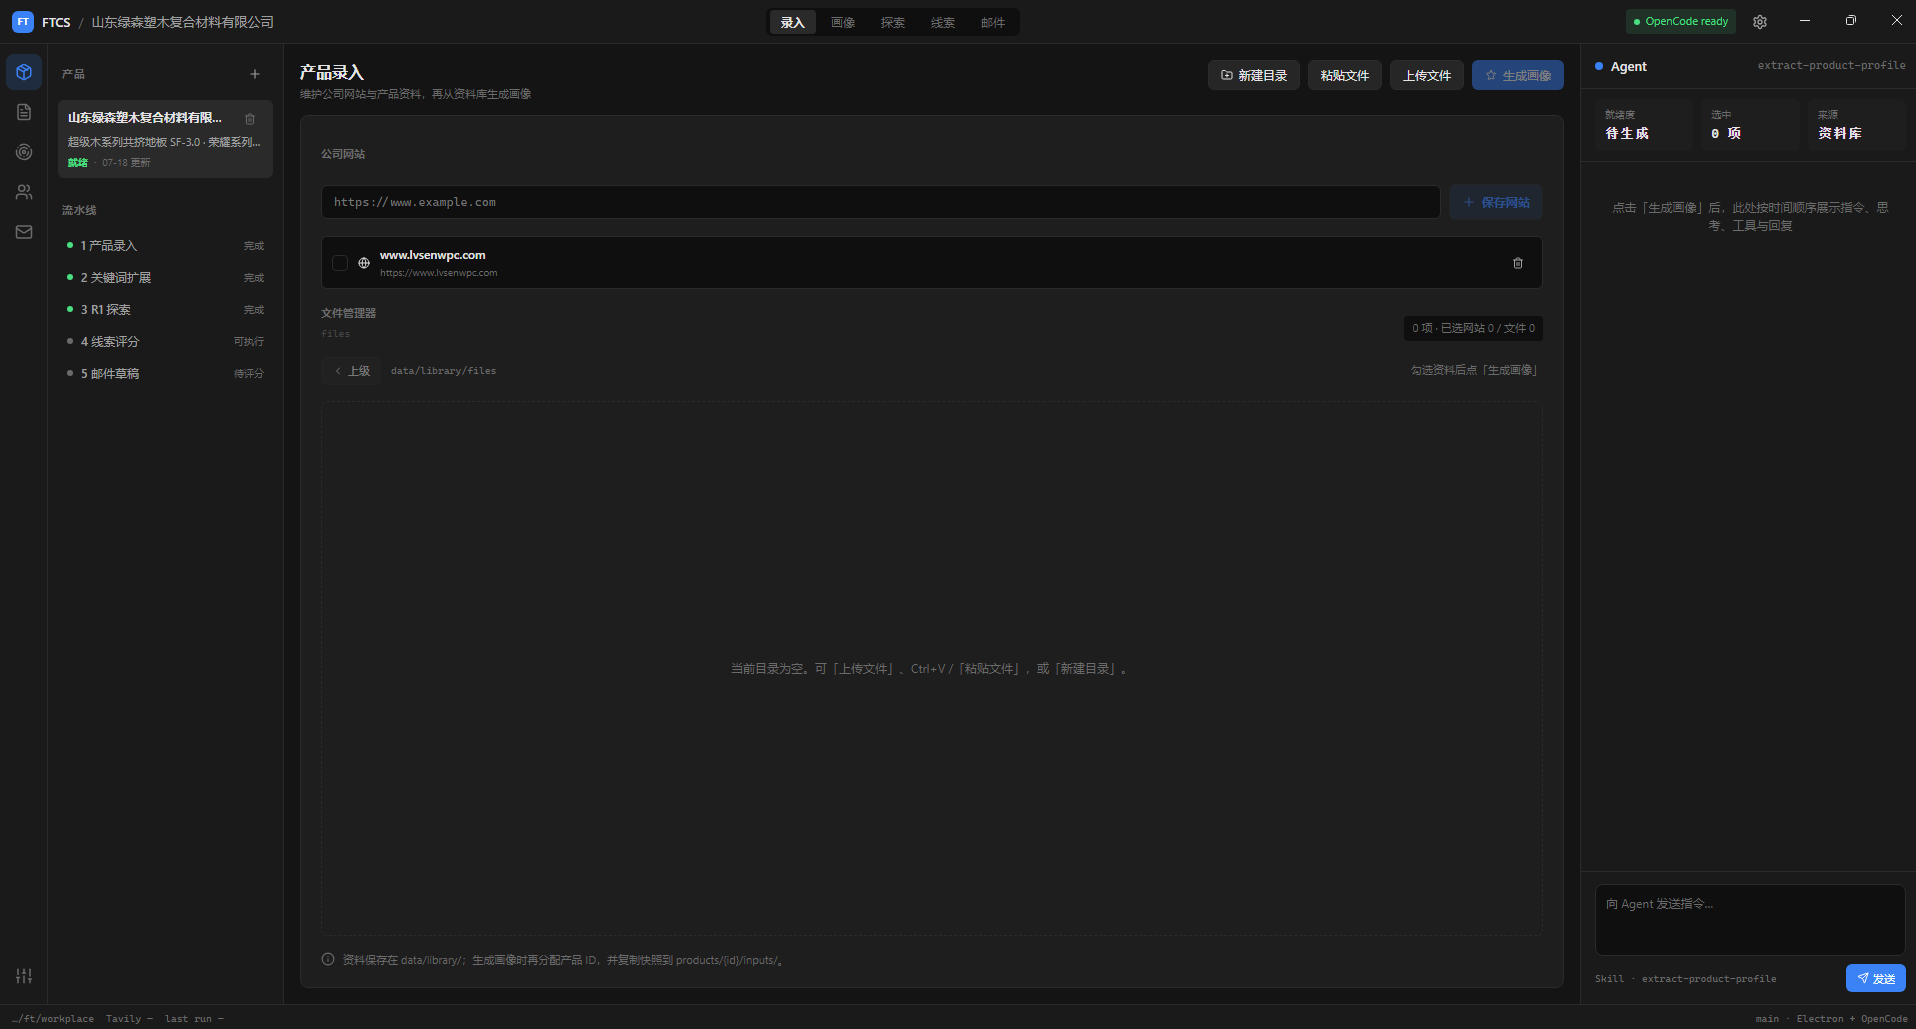
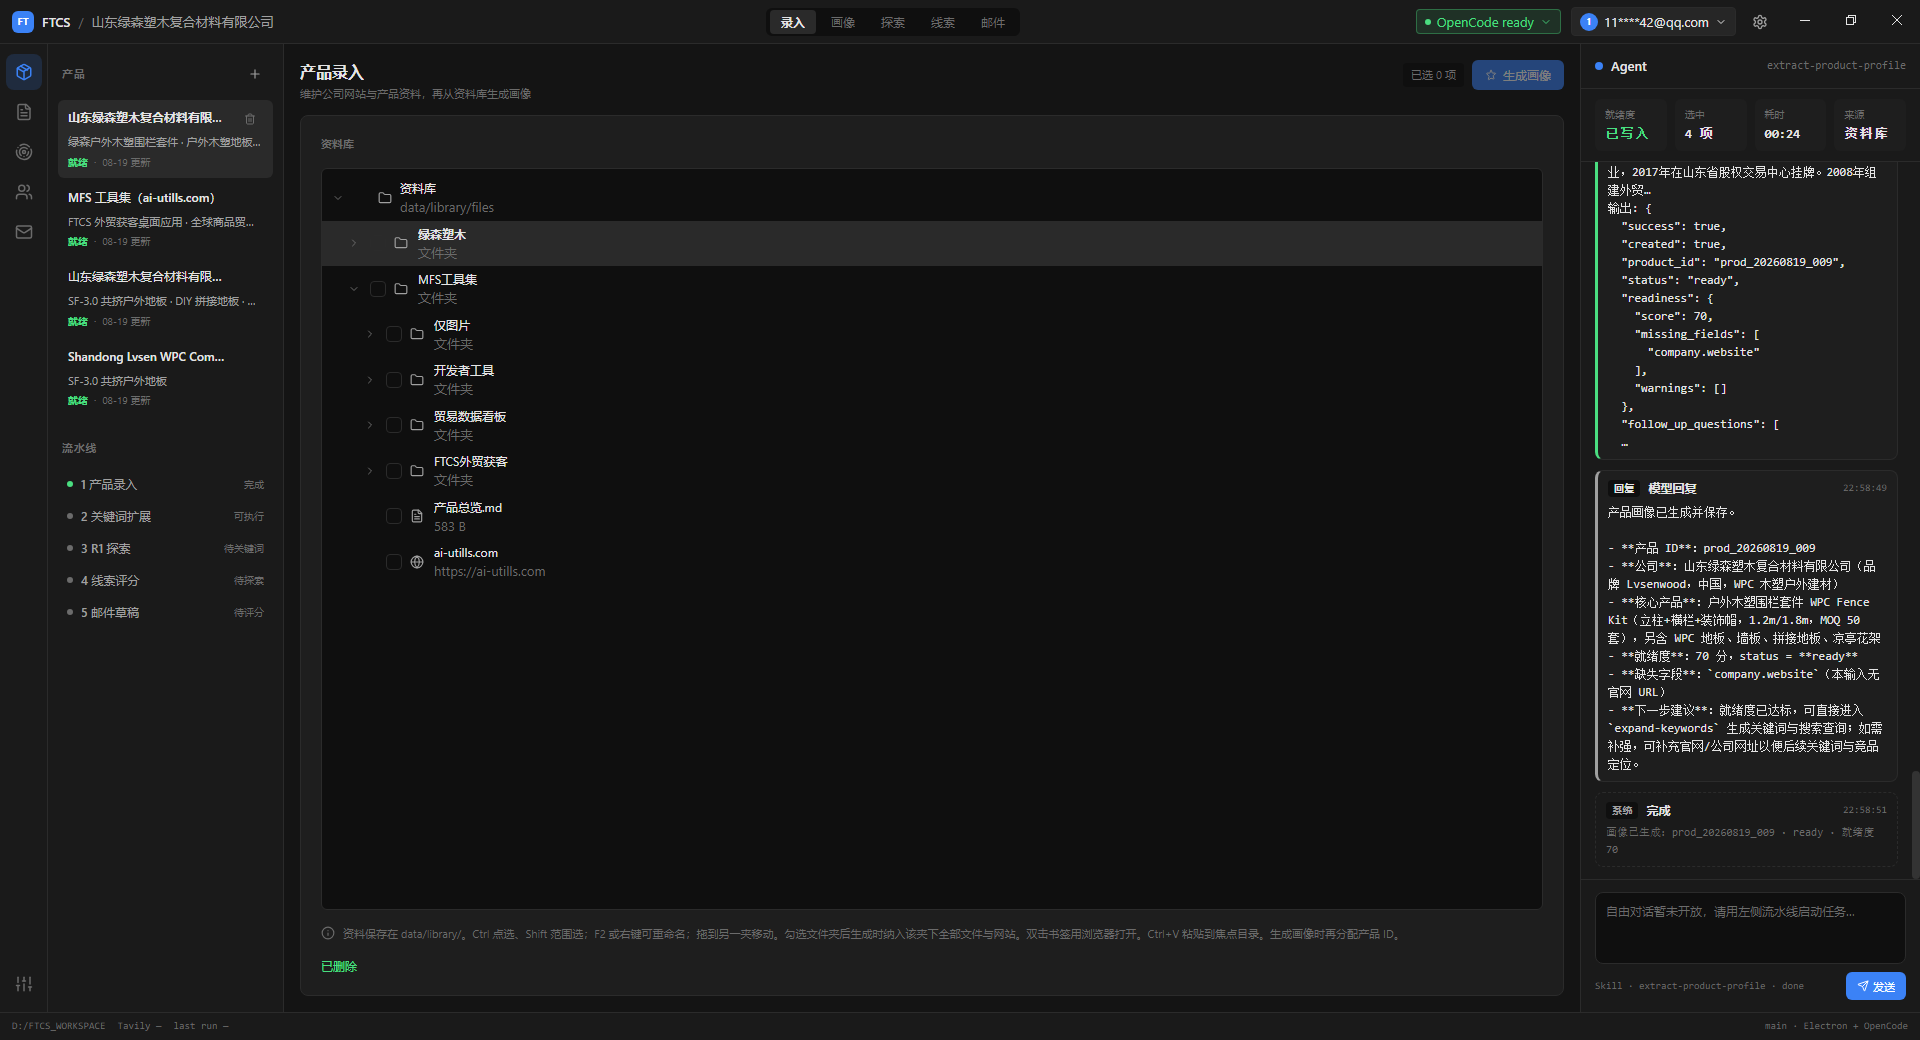
发布 0.5.0：同步版本号与录入优化说明（资料工程树 + OfficeCLI）。

diff --git a/website/src/config/site.ts b/website/src/config/site.ts
@@ -39,7 +39,7 @@ export const siteConfig: SiteConfig = {
   brand: 'FTCS',
   productName: '外贸获客',
   tagline: '把产品信息变成可行动的外贸线索与开发信草稿',
-  version: '0.4.1',
+  version: '0.5.0',
   phone: '+8617852032649',
   email: 'mfs1998@qq.com',
   downloadTip: '国内用户建议优先使用 Gitee 下载，速度通常明显更快；海外或 Gitee 不可用时可改用 GitHub。',
@@ -47,7 +47,7 @@ export const siteConfig: SiteConfig = {
     {
       id: 'setup',
       label: 'Windows 安装包',
-      filename: '外贸获客-Setup-0.4.1.exe',
+      filename: '外贸获客-Setup-0.5.0.exe',
       note: 'NSIS 安装程序',
       mirrors: [
         {
@@ -55,19 +55,19 @@ export const siteConfig: SiteConfig = {
           label: 'Gitee 下载',
           badge: '国内更快',
           primary: true,
-          url: 'https://gitee.com/mfs1998_admin/ftcs/releases/download/V0.4.1/%E5%A4%96%E8%B4%B8%E8%8E%B7%E5%AE%A2-Setup-0.4.1.exe',
+          url: 'https://gitee.com/mfs1998_admin/ftcs/releases/download/V0.5.0/%E5%A4%96%E8%B4%B8%E8%8E%B7%E5%AE%A2-Setup-0.5.0.exe',
         },
         {
           id: 'github',
           label: 'GitHub 下载',
-          url: 'https://github.com/Pedro-MAFS/ftcs/releases/download/0.4.1/foreign-trade-Setup-0.4.1.exe',
+          url: 'https://github.com/Pedro-MAFS/ftcs/releases/download/0.5.0/foreign-trade-Setup-0.5.0.exe',
         },
       ],
     },
     {
       id: 'portable',
       label: 'Windows 便携版',
-      filename: '外贸获客-Portable-0.4.1.exe',
+      filename: '外贸获客-Portable-0.5.0.exe',
       note: '解压即用，无需安装',
       mirrors: [
         {
@@ -75,12 +75,12 @@ export const siteConfig: SiteConfig = {
           label: 'Gitee 下载',
           badge: '国内更快',
           primary: true,
-          url: 'https://gitee.com/mfs1998_admin/ftcs/releases/download/V0.4.1/%E5%A4%96%E8%B4%B8%E8%8E%B7%E5%AE%A2-Portable-0.4.1.exe',
+          url: 'https://gitee.com/mfs1998_admin/ftcs/releases/download/V0.5.0/%E5%A4%96%E8%B4%B8%E8%8E%B7%E5%AE%A2-Portable-0.5.0.exe',
         },
         {
           id: 'github',
           label: 'GitHub 下载',
-          url: 'https://github.com/Pedro-MAFS/ftcs/releases/download/0.4.1/foreign-trade-Portable-0.4.1.exe',
+          url: 'https://github.com/Pedro-MAFS/ftcs/releases/download/0.5.0/foreign-trade-Portable-0.5.0.exe',
         },
       ],
     },

diff --git a/docs/04-实施计划.md b/docs/04-实施计划.md
@@ -194,7 +194,7 @@ P0 范围（2.0.1–2.0.5）已交付；2.0.6 / 2.0.7 为延后项，不阻塞 P
 | 2.2.3 | 实现 MCP `scheduler`（注册 cron 任务）             | [ ] |
 | 2.2.4 | 探索日志与 API 用量统计                             | [ ] |
 | 2.2.5 | 实现 MCP `web-crawler`（headless 批量爬取，用于定时探索） | [ ] |
-| 2.2.6 | 按需扩展特殊文件解析（PDF / Excel / 图片等）              | [ ] |
+| 2.2.6 | 按需扩展特殊文件解析（PDF / 图片 OCR 等；docx/xlsx/pptx 已由桌面侧车抽取） | [~] |
 
 
 ### 2.3 多轮探索
@@ -357,11 +357,11 @@ P0 范围（2.0.1–2.0.5）已交付；2.0.6 / 2.0.7 为延后项，不阻塞 P
 
 Phase 1 复盘见 [retrospective/phase-1.md](retrospective/phase-1.md)。
 
-**桌面 MVP 已可跑通**（2.0 / 2.1 P0，约 v0.4.1）。发信、定时探索、旧 R2/R3（海关 / 竞品反查）**不再作为下一优先**。
+**桌面 MVP 已可跑通**（约 **v0.5.0**：录入工程树 US-I-01～08 + OfficeCLI US-I-09～11）。发信、定时探索、旧 R2/R3（海关 / 竞品反查）**不再作为下一优先**。
 
-**下一阶段规划**（录入 US-I 已拆，见 §12）：[17-下一阶段-业务效率工具.md](17-下一阶段-业务效率工具.md)。
+**下一阶段规划**：[17-下一阶段-业务效率工具.md](17-下一阶段-业务效率工具.md)。录入主线已随 0.5.0 发布；探索 / 人员补全仍以 17 §5 / §6 为准，评审后再拆故事。
 
-本文 **Phase 2 / Phase G** 清单可能落后于代码，拆解完成前以 17 号文档为准。
+本文 **Phase 2 / Phase G** 清单可能落后于代码，以 17 号文档与桌面实际能力为准。
 
 ---
 

diff --git a/docs/06-MCP工具规范.md b/docs/06-MCP工具规范.md
@@ -27,7 +27,7 @@ workspace/mcp-servers/
 | P2 | web-crawler | 2 | headless 批量爬取，用于定时探索 |
 | P2 | email-sender | 2 | 审核后发送 |
 | P2 | scheduler | 2 | 定时探索 |
-| P2+ | file-parser | 2+ | 特殊文件解析（PDF/Excel/图片），按需扩展 |
+| P2+ | file-parser | 2+ | **仅 pdf / 图片 OCR 等**仍可按需扩展；docx/xlsx/pptx 已在桌面生成前用 OfficeCLI 抽侧车文本（见 docs/17、US-I-11），**不**再做成 Agent 必调 MCP |
 
 ---
 
@@ -255,21 +255,19 @@ SEARCH_DAILY_LIMIT=50
 
 ---
 
-## 7. file-parser（Phase 2+，按需扩展）
+## 7. file-parser（按需扩展，非录入主路径）
 
-**职责**：解析智能体原生工具无法直接读取的特殊文件。
+**职责**：解析桌面端尚未覆盖的特殊文件（主要是 **PDF / 图片 OCR**）。
 
-Phase 1 **不实现**。遇到 PDF、Excel、图片等格式时，Skill 应提示用户：
-- 转换为 txt/md/json/csv，或
-- 提供公司网站 URL，或
-- 等待后续版本支持
+> Word / Excel / PPT（`.docx` / `.xlsx` / `.pptx`）已在桌面主进程生成前用 OfficeCLI 抽出侧车文本（US-I-11），Skill 直接 Read 即可。**不要**再要求 Agent 必调 file-parser 处理这三类。
+
+PDF / 老格式 / 图片：可提示用户转换为 txt/md，或等待后续版本。
 
 后续按需扩展：
 
 | 格式 | 解析方式 |
 |------|---------|
 | PDF | pdf-parse / OCR |
-| Excel | xlsx 库 |
 | 图片 | 多模态模型 OCR |
 
 ---

diff --git a/docs/17-下一阶段-业务效率工具.md b/docs/17-下一阶段-业务效率工具.md
@@ -1,9 +1,9 @@
 # 17 - 下一阶段规划：业务效率工具
 
 > **文档类型**：阶段规划 + 已拆用户故事（录入 US-I）  
-> **状态**：录入工程树 US-I-01～08 已落地；Office 已拆 US-I-09～11（待详细设计）；探索 / 线索仍待评审后拆  
-> **基线**：桌面端约 v0.4.1，MVP 主路径已可跑通  
-> **下一步**：US-I-01～08 已落地；Office 已拆 [US-I-09～11](#124-用户故事录入-office-us-i-0911)；探索、线索按 §5 / §6 评审后再拆 US-E / US-C
+> **状态**：录入 US-I-01～11 已落地（随桌面 **v0.5.0** 发布）；探索 / 线索仍按 §5 / §6 评审后再拆  
+> **基线**：桌面端 **v0.5.0**（MVP + 资料工程树 + Office 侧车抽取）  
+> **下一步**：探索渠道改写、人员联系画像按 §5 / §6 评审后再拆 US-E / US-C
 
 本文是 MVP 之后的**方向文档**。不替代 04 的执行勾选，也不在此刻改 01 / 02 的旧轮次表。拆解完成后再回写那些权威文档。
 

diff --git a/website/content/docs/install.md b/website/content/docs/install.md
@@ -82,6 +82,12 @@ opencode --version
 
 也可在环境变量中指定可执行文件路径：`FTCS_OPENCODE_PATH`。
 
+## OfficeCLI（可选）
+
+若要用 **Word / Excel / PPT**（`.docx` / `.xlsx` / `.pptx`）生成产品画像，可在首次引导或生成提示中**一键安装 OfficeCLI**（装到应用数据目录，不进入主安装包）。未安装时仍可用官网与文本文件生成；遇 Office 文件时可选择安装、跳过该文件或取消。
+
+当前不覆盖 PDF、老格式 `.doc` 的抽取。
+
 ## 首次启动
 
 1. 启动应用，等待 Sidecar / 运行时就绪  
